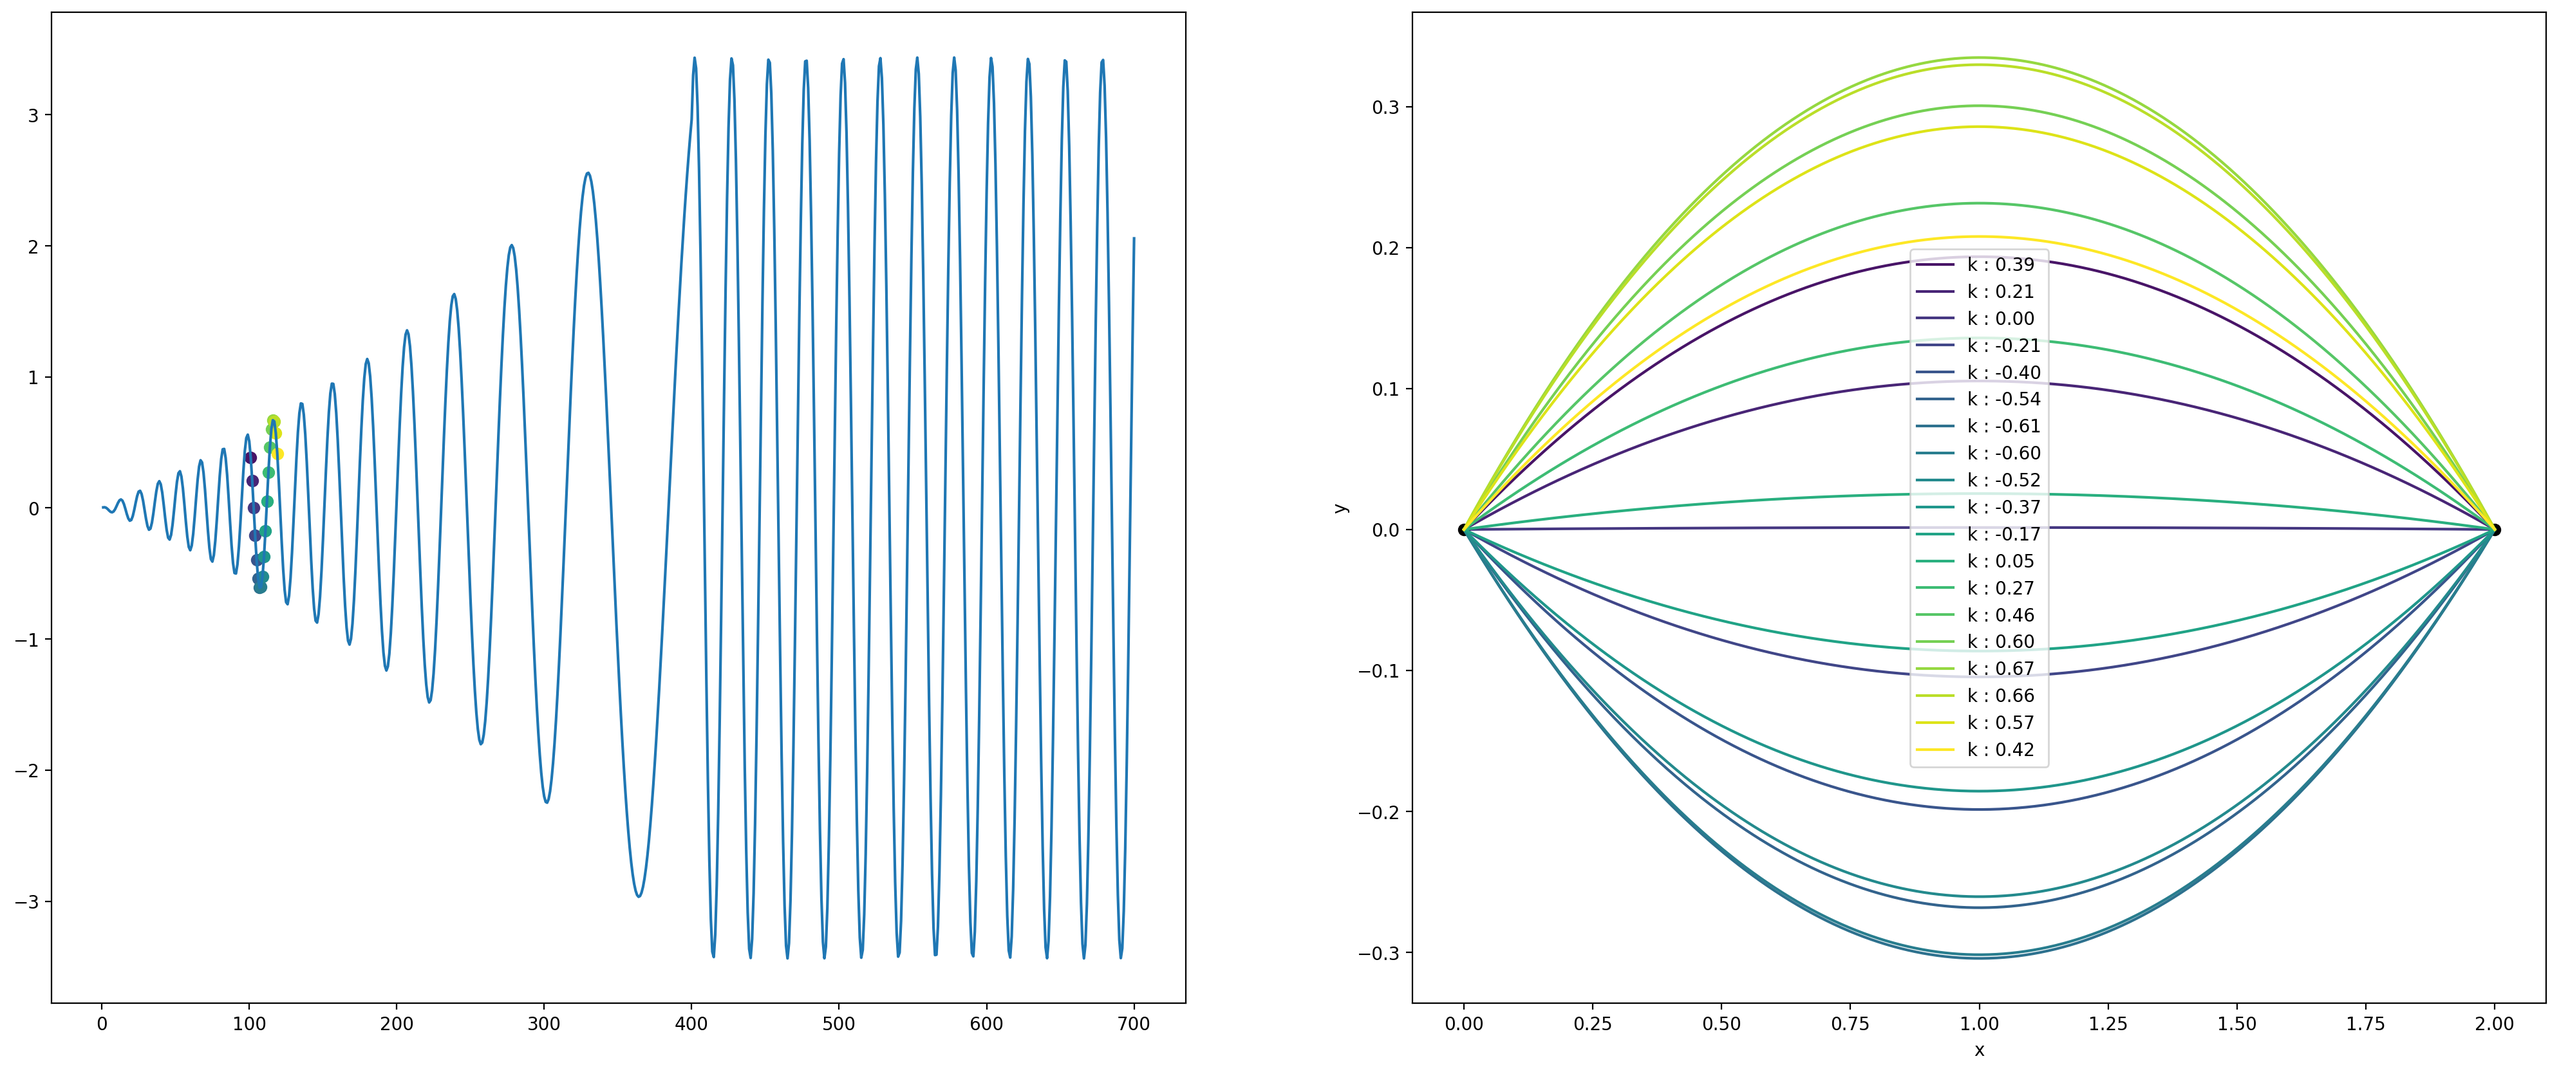
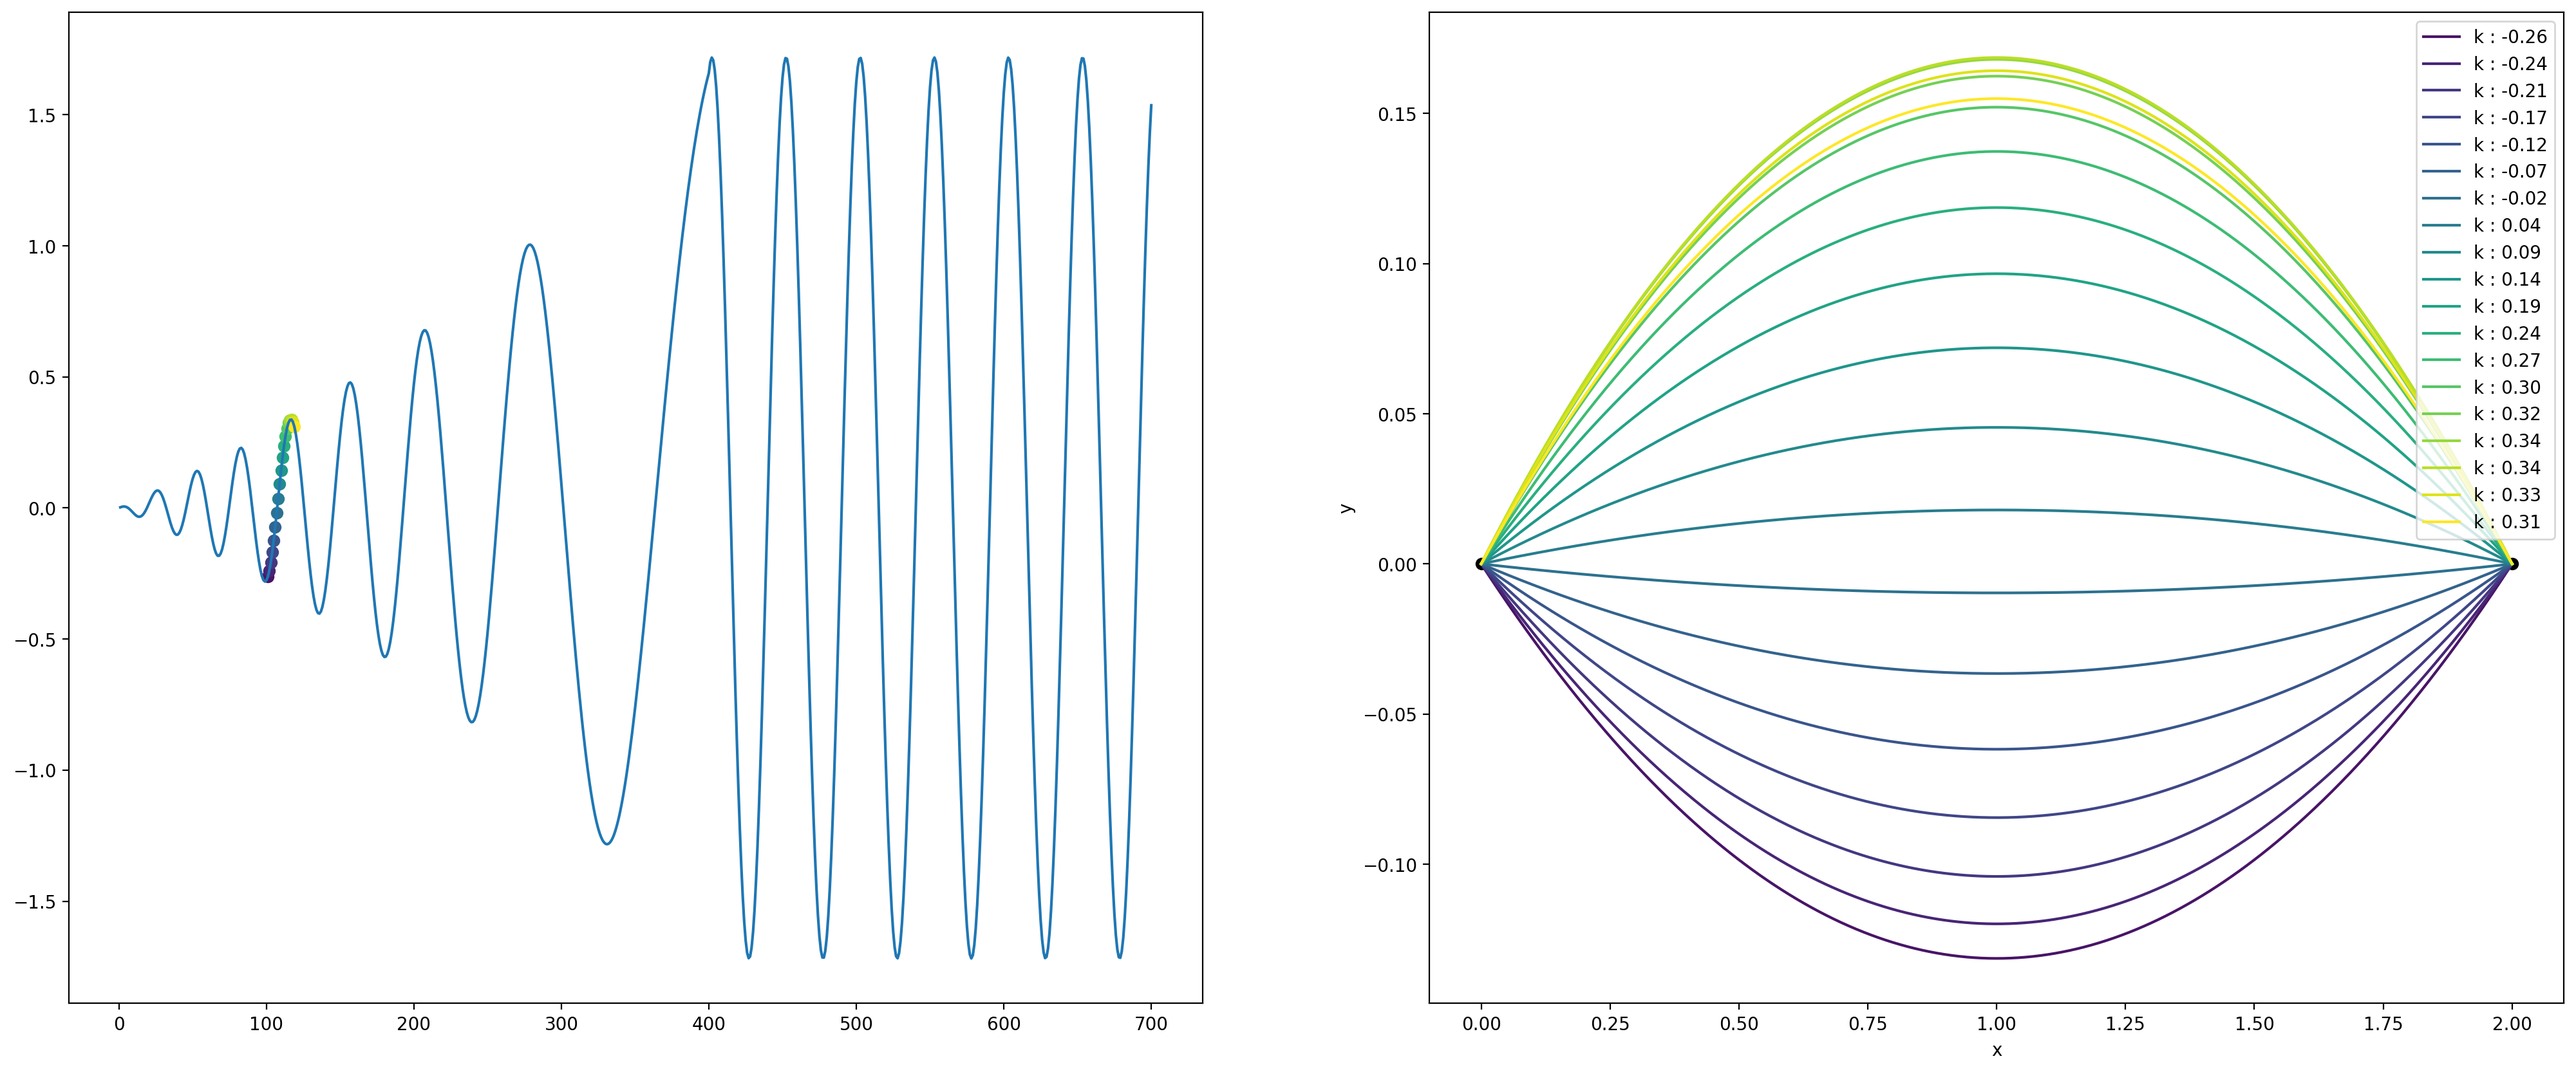
branch issue

diff --git a/src/Astar_ani.py b/src/Astar_ani.py
@@ -231,7 +231,7 @@ def plot_velocity(step,vx,vy,v0,X,Y):
     vy_sub = vy[::step, ::step]
     v0_sub = v0[::step, ::step]
     print(v0_sub.shape)
-    mask = ((vx_sub != 0) | (vy_sub != 0))  & (v0_sub>0.2)
+    mask = ((vx_sub != 0) | (vy_sub != 0))  & (v0_sub>0.15)
 
     X_masked = X_sub[mask]
     Y_masked = Y_sub[mask]
@@ -244,14 +244,14 @@ def plot_velocity(step,vx,vy,v0,X,Y):
     #     cmap='Reds',
     #     alpha=0.7
     # )
-    plt.colorbar(label='v0')
+    # plt.colorbar(label='v0')
 
     plt.quiver(
         X_masked,
         Y_masked,
         vx_masked,
         vy_masked,
-        color="darkred",
+        color="grey",
         scale=80,
         alpha=0.5,
     )
@@ -383,11 +383,11 @@ if __name__ == "__main__":
     goal_point = (physical_width * goal_point[0], physical_height * goal_point[1])
     print('distance between the two points : ',  np.linalg.norm(np.array(goal_point)-np.array(start_point)))
     B = 5
-    h = 0
-    pow_v0 = 5
-    pow_al = 0
-
+    h = 2
+    pow_v0 = 7
+    pow_al = 5
     max_radius = 3
+    
     shortest_geo_path = False
     v1 = False
     grid_size = (len(x_phys),len(y_phys))
@@ -410,44 +410,43 @@ if __name__ == "__main__":
         max_radius=5
     
         
-    for pow_al in np.linspace(0,10,5):
-        start_time = time.time()
-        # Compute the path
-        path, travel_time = astar_anisotropic(
-            x_phys,
-            y_phys,
-            v0,
-            vx,
-            vy,
-            start_point,
-            goal_point,
-            sdf_func,
-            heuristic_weight=h,
-            pow_v0=pow_v0,
-            pow_al=pow_al,
-            max_radius=max_radius
-        )
-        # path = shortcut_path(path,is_collision_free,sdf_interpolator)
-        print("Travel time :", travel_time)
+    start_time = time.time()
+    # Compute the path
+    path, travel_time = astar_anisotropic(
+        x_phys,
+        y_phys,
+        v0,
+        vx,
+        vy,
+        start_point,
+        goal_point,
+        sdf_func,
+        heuristic_weight=h,
+        pow_v0=pow_v0,
+        pow_al=pow_al,
+        max_radius=max_radius
+    )
+    # path = shortcut_path(path,is_collision_free,sdf_interpolator)
+    print("Travel time :", travel_time)
 
-        path = np.array(path)  # de forme (N, 2)
-        dist = np.array([abs(path[i + 1] - path[i]) for i in range(len(path) - 1)])
-        print("path before resampling :", len(path))
-        n = ceil(np.max(dist) / (5 * 1e-3))
-        if n > 1:
-            path,distances = resample_path(path, len(path) * n)
-        print("after resampling : ", len(path))
-        smoothed_x = gaussian_filter1d(path[:, 0], sigma=30)
-        smoothed_y = gaussian_filter1d(path[:, 1], sigma=30)
-        path = np.stack([smoothed_x, smoothed_y], axis=1)
-        print("Path length : ",distances)
-        X, Y = np.meshgrid(x_phys, y_phys)
-        visualize_results_a_star(
-            X, Y, sdf_func, path, vx, vy,v0,scale,label = f' b : {pow_al}'
-        )
-        end_time = time.time()
-        elapsed_time = (end_time - start_time) / 60
-        print("Execution time:", elapsed_time, "minutes")
+    path = np.array(path)  # de forme (N, 2)
+    dist = np.array([abs(path[i + 1] - path[i]) for i in range(len(path) - 1)])
+    print("path before resampling :", len(path))
+    n = ceil(np.max(dist) / (5 * 1e-3))
+    if n > 1:
+        path,distances = resample_path(path, len(path) * n)
+    print("after resampling : ", len(path))
+    smoothed_x = gaussian_filter1d(path[:, 0], sigma=30)
+    smoothed_y = gaussian_filter1d(path[:, 1], sigma=30)
+    path = np.stack([smoothed_x, smoothed_y], axis=1)
+    print("Path length : ",distances)
+    X, Y = np.meshgrid(x_phys, y_phys)
+    visualize_results_a_star(
+        X, Y, sdf_func, path, vx, vy,v0,scale,label = f'path'
+    )
+    end_time = time.time()
+    elapsed_time = (end_time - start_time) / 60
+    print("Execution time:", elapsed_time, "minutes")
         
     if vx is not None and vy is not None : 
         plot_velocity(6,vx,vy,v0,X,Y)
@@ -457,7 +456,7 @@ if __name__ == "__main__":
     plt.axis("off")
     plt.title("Path")
     plt.tight_layout()
-    plt.savefig(f"fig/Astar_ani_test_{current_time}.png", dpi=300, bbox_inches="tight")
+    plt.savefig(f"fig/Astar_ani_test_{current_time}_pow_al_0.png", dpi=300, bbox_inches="tight")
     plt.close()
 
     

diff --git a/src/evaluation_after_training.py b/src/evaluation_after_training.py
@@ -243,24 +243,58 @@ if __name__ == "__main__":
     # offset=0.2
     # compare_p_line(agent_name,config_eval_comp,'comparison_north_02',save_path_eval,u_bg,'',offset)
 
-    agents_file = [
-        agent_name,
-        'agents/agent_TD3_2025-05-16_15-12',
-        'agents/agent_TD3_2025-05-16_16-11'
-    ]
+    print("Agents files : ", agents_file)
+    types = ["ondulating", "line"]
+    title_add = "rankine_a_05__cir_3_center_1_075"
+    print("--------------------- Evaluation with rankine bg ---------------------")
+    for type in types:
+        a = 0.5
+        cir = 2
+        center = np.array([1, 3 / 4])
+        results = evaluate_after_training(
+            agents_file,
+            type=type,
+            p_target=[2, 0],
+            p_0=[0, 0],
+            title_add=title_add,
+            a=a,
+            center=center,
+            cir=cir,
+        )
+        rank_agents_by_rewards(results)
 
-    # directory_path = Path("agents/")
+    print("--------------------- Evaluation with no bg ---------------------")
+    title_add = "free"
+    for type in types:
+        results = evaluate_after_training(
+            agents_file,
+            type=type,
+            p_target=[2, 0],
+            p_0=[0, 0],
+            title_add=title_add,
+        )
+        rank_agents_by_rewards(results)
 
-    # for item in directory_path.iterdir():
-    #     if item.is_dir() and "agent_TD3" in item.name:
-    #         if "2025-04-23" in item.name or "2025-04-22" in item.name:
-    #             agents_file.append(os.path.join(directory_path, item.name))
+    norm = 0.5
+    dict = {
+        "east_05": np.array([1, 0]),
+        "west_05": np.array([-1, 0]),
+        "north_05": np.array([0, 1]),
+        "south_05": np.array([0, -1]),
+    }
+    print("---------------------Evaluation with uniform bg---------------------")
+    for type in types:
+        for title_add, dir in dict.items():
+            results = evaluate_after_training(
+                agents_file,
+                type=type,
+                p_target=[2, 0],
+                p_0=[0, 0],
+                title_add=title_add,
+                dir=dir,
+                norm=norm,
+            )
+            rank_agents_by_rewards(results)
 
-    
-    results = evaluate_after_training(
-        agents_file,
-        type= 'helix',
-    )
-    rank_agents_by_rewards(results)
 
 

diff --git a/src/data_loader.py b/src/data_loader.py
@@ -170,7 +170,6 @@ if __name__ == "__main__":
         return(sdf_interp_phys(point[::-1]))
     
     print("Shape new sdf:", sdf_phys.shape)
-    print("Min new sdf:", np.min(sdf_phys))
     
     plt.figure(figsize=(8, 6))
     contour = plt.contourf(X_phys, Y_phys, sdf_phys, levels=100, cmap="Reds")
@@ -181,8 +180,8 @@ if __name__ == "__main__":
     start_point = (physical_width * 0.98, physical_height * 0.3)
     goal_point = (physical_width * 0.54, physical_height * 0.675)
     
-    print(sdf_func_phys(start_point))
-    print(sdf_func_phys(goal_point))
+    # print(sdf_func_phys(start_point))
+    # print(sdf_func_phys(goal_point))
     
     
     plt.scatter(goal_point[0], goal_point[1], color="black", s=5)

diff --git a/src/generate_path.py b/src/generate_path.py
@@ -112,9 +112,9 @@ if __name__ == "__main__":
     p_target = np.array([2, 0])
     nb_points = 200
     # plot_path(p_0,p_target,nb_points,'line')
-    A = 2
+    A = 1
     N = 400
-    f = 4
+    f = 2
     n_values = np.linspace(1, 700, 700, dtype=int)
     output = [func_k_max(A, N, f, n) for n in n_values]
     nb_points = 700
